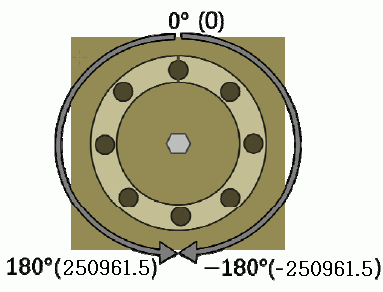
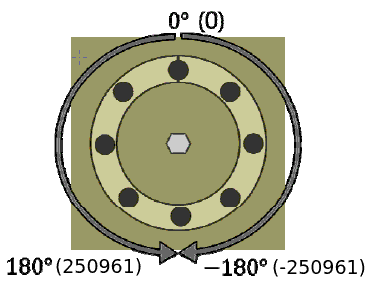
Wizard 2.0, DYNAMIXEL SHIELD and etc

diff --git a/docs/kr/parts/interface/dynamixel_shield.md b/docs/kr/parts/interface/dynamixel_shield.md
@@ -155,7 +155,36 @@ dxl.begin(1000000, DXL_PACKET_VER_2_0);
 
 ## [사용 가능한 API 목록](#사용-가능한-api-목록)
 
-### [DynamixelShield(v0.0.5)](dynamixelshieldv005)
+### [DYNAMIXEL2Arduino](#dynamixel2arduino)
+
+**참고** : 이 라이브러리는 현재 [GitHub repository]{: .blank}를 통해 다운로드 받을 수 있습니다.
+{: .notice}
+
+- [begin()]{: .popup}
+- [getPortBaud()]{: .popup}
+- [ping()]{: .popup}
+- [scan()]{: .popup}
+- [getModelNumber()]{: .popup}
+- [setID()]{: .popup}
+- [setProtocol()]{: .popup}
+- [setBaudrate()]{: .popup}
+- [torqueOn()]{: .popup}
+- [torqueOff()]{: .popup}
+- [ledOn()]{: .popup}
+- [ledOff()]{: .popup}
+- [setOperatingMode()]{: .popup}
+- [setGoalPosition()]{: .popup}
+- [getPresentPosition()]{: .popup}
+- [setGoalVelocity()]{: .popup}
+- [getPresentVelocity()]{: .popup}
+- [setGoalPWM()]{: .popup}
+- [getPresentPWM()]{: .popup}
+- [setGoalCurrent()]{: .popup}
+- [getPresentCurrent()]{: .popup}
+- [readControlTableItem()]{: .popup}
+- [writeControlTableItem()]{: .popup}
+
+### [DynamixelShield(v0.0.5)](#dynamixelshieldv005)
 
 **주의** : 이 API는 더이상 지원되지 않으며 단종될 예정입니다. [DYNAMIXEL2Arduino](#dynamixel2arduino)를 참고해주시기 바랍니다.
 {: .notice--warning}
@@ -206,34 +235,7 @@ bool syncWriteBegin(void);
 bool syncWriteEnd(void);
 ```
 
-### [DYNAMIXEL2Arduino](#dynamixel2arduino)
 
-**참고** : 이 라이브러리는 현재 [GitHub repository]{: .blank}를 통해 다운로드 받을 수 있습니다.
-{: .notice}
-
-- [begin()]{: .popup}
-- [getPortBaud()]{: .popup}
-- [ping()]{: .popup}
-- [scan()]{: .popup}
-- [getModelNumber()]{: .popup}
-- [setID()]{: .popup}
-- [setProtocol()]{: .popup}
-- [setBaudrate()]{: .popup}
-- [torqueOn()]{: .popup}
-- [torqueOff()]{: .popup}
-- [ledOn()]{: .popup}
-- [ledOff()]{: .popup}
-- [setOperatingMode()]{: .popup}
-- [setGoalPosition()]{: .popup}
-- [getPresentPosition()]{: .popup}
-- [setGoalVelocity()]{: .popup}
-- [getPresentVelocity()]{: .popup}
-- [setGoalPWM()]{: .popup}
-- [getPresentPWM()]{: .popup}
-- [setGoalCurrent()]{: .popup}
-- [getPresentCurrent()]{: .popup}
-- [readControlTableItem()]{: .popup}
-- [writeControlTableItem()]{: .popup}
 
 [Arduino Official Guide]: https://www.arduino.cc/en/Guide/Libraries
 

diff --git a/docs/en/parts/interface/dynamixel_shield.md b/docs/en/parts/interface/dynamixel_shield.md
@@ -156,6 +156,36 @@ The shield library is based on the Dynamixel model and automatically refers to t
 
 ## [Available APIs](#available-apis)
 
+
+### [DYNAMIXEL2Arduino](#dynamixel2arduino)
+
+**NOTE** : This library is currently available from [GitHub repository]{: .blank} and will be released soon.
+{: .notice}
+
+- [begin()]{: .popup}
+- [getPortBaud()]{: .popup}
+- [ping()]{: .popup}
+- [scan()]{: .popup}
+- [getModelNumber()]{: .popup}
+- [setID()]{: .popup}
+- [setProtocol()]{: .popup}
+- [setBaudrate()]{: .popup}
+- [torqueOn()]{: .popup}
+- [torqueOff()]{: .popup}
+- [ledOn()]{: .popup}
+- [ledOff()]{: .popup}
+- [setOperatingMode()]{: .popup}
+- [setGoalPosition()]{: .popup}
+- [getPresentPosition()]{: .popup}
+- [setGoalVelocity()]{: .popup}
+- [getPresentVelocity()]{: .popup}
+- [setGoalPWM()]{: .popup}
+- [getPresentPWM()]{: .popup}
+- [setGoalCurrent()]{: .popup}
+- [getPresentCurrent()]{: .popup}
+- [readControlTableItem()]{: .popup}
+- [writeControlTableItem()]{: .popup}
+
 ### [DynamixelShield(v0.0.5)](dynamixelshieldv005)
 
 **WARNING** : This API will be deprecated and replaced to [DYNAMIXEL2Arduino](#dynamixel2arduino) APIs
@@ -207,34 +237,7 @@ bool syncWriteBegin(void);
 bool syncWriteEnd(void);
 ```
 
-### [DYNAMIXEL2Arduino](#dynamixel2arduino)
 
-**NOTE** : This library is currently available from [GitHub repository]{: .blank} and will be released soon.
-{: .notice}
-
-- [begin()]{: .popup}
-- [getPortBaud()]{: .popup}
-- [ping()]{: .popup}
-- [scan()]{: .popup}
-- [getModelNumber()]{: .popup}
-- [setID()]{: .popup}
-- [setProtocol()]{: .popup}
-- [setBaudrate()]{: .popup}
-- [torqueOn()]{: .popup}
-- [torqueOff()]{: .popup}
-- [ledOn()]{: .popup}
-- [ledOff()]{: .popup}
-- [setOperatingMode()]{: .popup}
-- [setGoalPosition()]{: .popup}
-- [getPresentPosition()]{: .popup}
-- [setGoalVelocity()]{: .popup}
-- [getPresentVelocity()]{: .popup}
-- [setGoalPWM()]{: .popup}
-- [getPresentPWM()]{: .popup}
-- [setGoalCurrent()]{: .popup}
-- [getPresentCurrent()]{: .popup}
-- [readControlTableItem()]{: .popup}
-- [writeControlTableItem()]{: .popup}
 
 [Arduino Official Guide]: https://www.arduino.cc/en/Guide/Libraries
 

diff --git a/docs/en/software/dynamixel/dynamixel_workbench.md b/docs/en/software/dynamixel/dynamixel_workbench.md
@@ -19,7 +19,7 @@ The purpose of Dynamixel-Workbench is **to use more simple and easy to use any D
 
 If have any questions or issues, please get a ticket in [github issue](https://github.com/ROBOTIS-GIT/dynamixel-workbench/issues).
 
-**WARNING** : Single manager and Single manager GUI are not supported anymore. Please use [DYNAMIXEL Wizard 2.0](/docs/en/software/dynamixel/dynamixel_wizard2/). 
+**WARNING** : Support for Single Manager and Single Manager GUI will end on Jun 21st, 2019. Please use [DYNAMIXEL Wizard 2.0](/docs/en/software/dynamixel/dynamixel_wizard2/). 
 {: .notice--warning}
   
 
@@ -248,7 +248,7 @@ Then you can see below texts.
 If you connect multiple Dynamixels, manager would detect the **lowest ID** among connected Dynamixels.
 {: .notice--warning}
 
-**WARNING** : Single manager and Single manager GUI are not supported anymore. Please use [DYNAMIXEL Wizard 2.0](/docs/en/software/dynamixel/dynamixel_wizard2/). 
+**WARNING** : Support for Single Manager and Single Manager GUI will end on Jun 21st, 2019. Please use [DYNAMIXEL Wizard 2.0](/docs/en/software/dynamixel/dynamixel_wizard2/). 
 {: .notice--warning}
 
 This package is to check Dynamixel status and access Dynamixel's control table.
@@ -360,7 +360,7 @@ Receives command to control Dynamixel
 **WARNING**: Before you run this package, please launch [single_manager](/docs/en/software/dynamixel/dynamixel_workbench/#single-manager) first.
 {: .notice--warning}
 
-**WARNING** : Single manager and Single manager GUI are not supported anymore. Please use [DYNAMIXEL Wizard 2.0](/docs/en/software/dynamixel/dynamixel_wizard2/). 
+**WARNING** : Support for Single Manager and Single Manager GUI will end on Jun 21st, 2019. Please use [DYNAMIXEL Wizard 2.0](/docs/en/software/dynamixel/dynamixel_wizard2/). 
 {: .notice--warning}
 
 This package is to check Dynamixel status and access Dynamixel's Control Table addresses via **GUI**.

diff --git a/_includes/en/dxl/control_table_596_goalposition_pro.md b/_includes/en/dxl/control_table_596_goalposition_pro.md
@@ -1,6 +1,6 @@
 Desired position can be set with Goal Position(596). This value can't be smaller than the Min Position Limit(40) or larger than Max Position Limit(36).
 
-|Model|Angle Range|Position Range| Description |
-| :-------: | :--------: | :--------: | :--------: |
-|H54-200-S500-R<br />H54-100-S500-R|-180&deg; ~ 180 &deg;|-250,961.5 ~ 250,961.5|![](/assets/images/dxl/pro/h54_angle_position.png)<br />![](/assets/images/dxl/pro/pro_goal_angle_formula.png)|
-|H42-20-S300-R|-180&deg; ~ 180 &deg;|-151,875 ~ 151,875|![](/assets/images/dxl/pro/h42_angle_position.png)
+|               Model                |      Angle Range      |     Position Range     |                                                  Description                                                   |
+|:----------------------------------:|:---------------------:|:----------------------:|:--------------------------------------------------------------------------------------------------------------:|
+| H54-200-S500-R<br />H54-100-S500-R | -180&deg; ~ 180 &deg; | -250,961 ~ 250,961 | ![](/assets/images/dxl/pro/h54_angle_position.png)<br />![](/assets/images/dxl/pro/pro_goal_angle_formula.png) |
+|           H42-20-S300-R            | -180&deg; ~ 180 &deg; |   -151,875 ~ 151,875   |                               ![](/assets/images/dxl/pro/h42_angle_position.png)                               |

diff --git a/docs/en/software/dynamixel/dynamixel_wizard2.md b/docs/en/software/dynamixel/dynamixel_wizard2.md
@@ -36,9 +36,10 @@ The following features are provided with DYNAMIXEL Wizard 2.0.
 
 ## [Supported OS](#supported-os)
 
-- Windows
-- Linux
-- Mac OS
+- Windows 7 / 8 / 10
+- Ubuntu 16 / 18
+- Mac OS X (10.11 El Capitan or above)
+
 
 ## [Definition of Firmware](#definition-of-firmware)
 

diff --git a/docs/kr/software/dynamixel/dynamixel_wizard2.md b/docs/kr/software/dynamixel/dynamixel_wizard2.md
@@ -38,7 +38,7 @@ sidebar:
 
 - Windows 7 / 8 / 10
 - Ubuntu 16 / 18
-- Mac OS
+- Mac OS X (10.11 El Capitan or above)
 
 ## [펌웨어 정의](#펌웨어-정의)
 
